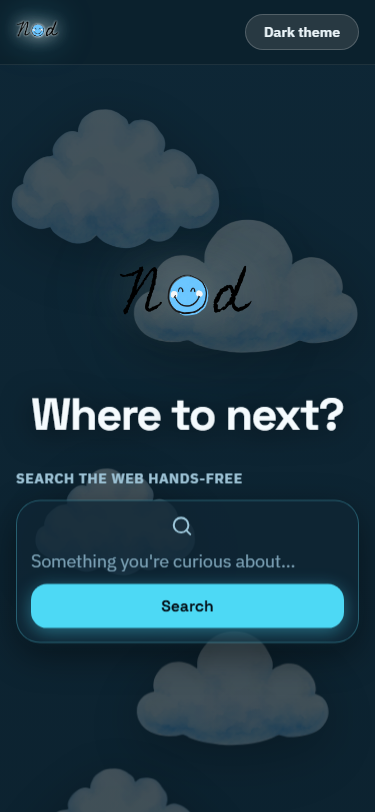
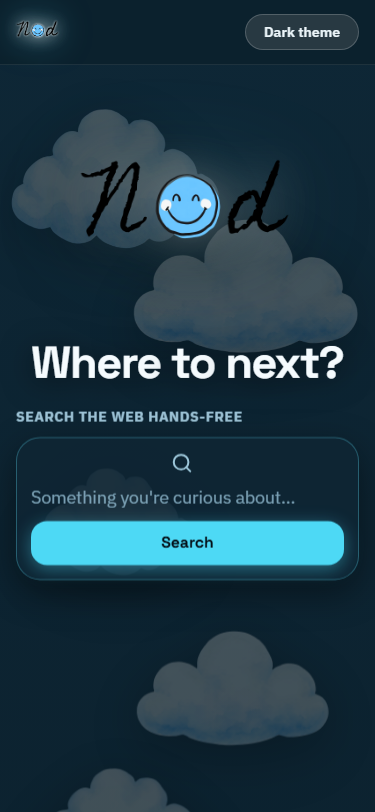
trying to fix search bar

diff --git a/ui/theme.css b/ui/theme.css
@@ -20,6 +20,16 @@
   /* Text & Accents (Light / Day Mode) */
   --hero-title-color: #0a0a0a;           /* Required: near-black, ultra-high contrast */
   --hero-logo-filter: drop-shadow(0 14px 28px rgba(8, 42, 56, 0.10));
+  
+  /* Hero Sizing & Spacing Tokens (Easily Tweakable) */
+  --hero-logo-height:        clamp(220px, 34vw, 530px);
+  --hero-logo-max-width:     min(94vw, 720px);
+  --hero-padding-top:        clamp(28px, 4.5vh, 52px);
+  --hero-padding-bottom:     clamp(50px, 7vh, 80px);
+  --hero-gap-logo-title:     clamp(12px, 1.5vw, 18px);
+  --hero-gap-title-search:   clamp(18px, 2.2vw, 26px);
+  --hero-title-size:         clamp(1.8rem, 3.8vw, 2.85rem);
+
   --text-main:        #081c26;           /* Crisp dark body text for WCAG AA */
   --text-muted:       #14384a;           /* Secondary text */
   --text-subtle:      #2a556d;
@@ -290,9 +300,9 @@ body {
 }
 
 .brand-logo {
-  height: 64px;
+  height: 68px;
   width: auto;
-  max-height: 72px;
+  max-height: 76px;
   object-fit: contain;
   display: block;
   filter: var(--brand-logo-filter);
@@ -400,8 +410,8 @@ main {
   display: flex;
   flex-direction: column;
   align-items: center;
-  justify-content: center;
-  padding: 30px 24px 50px;
+  justify-content: flex-start;
+  padding: var(--hero-padding-top) 24px var(--hero-padding-bottom);
   overflow: hidden;
 }
 
@@ -428,22 +438,22 @@ main {
 }
 
 .hero-cloud-b1 {
-  top: 10%;
-  left: 3%;
+  top: 6%;
+  left: 2%;
   width: clamp(280px, 32vw, 440px);
   animation: heroFloat1 18s ease-in-out infinite alternate;
 }
 
 .hero-cloud-b2 {
-  top: 14%;
-  right: 3%;
+  top: 8%;
+  right: 2%;
   width: clamp(300px, 36vw, 500px);
   animation: heroFloat2 22s ease-in-out infinite alternate;
 }
 
 .hero-cloud-b3 {
-  top: 64%;
-  left: 6%;
+  top: 68%;
+  left: 4%;
   width: clamp(240px, 25vw, 360px);
   animation: heroFloat1 25s ease-in-out infinite alternate;
   opacity: 0.8;
@@ -457,15 +467,15 @@ main {
 }
 
 .hero-cloud-f1 {
-  top: 22%;
-  left: 8%;
+  top: 24%;
+  left: 5%;
   width: clamp(180px, 20vw, 280px);
   animation: heroFloatFront1 15s ease-in-out infinite alternate;
 }
 
 .hero-cloud-f2 {
-  top: 18%;
-  right: 6%;
+  top: 20%;
+  right: 5%;
   width: clamp(190px, 22vw, 300px);
   animation: heroFloatFront2 17s ease-in-out infinite alternate;
 }
@@ -507,14 +517,14 @@ main {
   display: flex;
   justify-content: center;
   align-items: center;
-  margin-bottom: clamp(18px, 2.5vw, 28px);
+  margin-bottom: var(--hero-gap-logo-title);
   will-change: transform, opacity;
 }
 
 .hero-logo {
-  height: clamp(140px, 22vw, 300px);
+  height: var(--hero-logo-height);
   width: auto;
-  max-width: min(90vw, 520px);
+  max-width: var(--hero-logo-max-width);
   object-fit: contain;
   display: block;
   margin: 0 auto;
@@ -537,12 +547,12 @@ main {
 /* ── HERO HEADLINE: HARMONIOUS SIZE UNDER LOGO ───────────────────── */
 .hero-title {
   font-family: var(--font-display);
-  font-size: clamp(2rem, 4.5vw, 3.5rem);
+  font-size: var(--hero-title-size);
   font-weight: 700;
   line-height: 1.15;
   letter-spacing: -0.03em;
   color: var(--hero-title-color);
-  margin-bottom: clamp(28px, 3.5vw, 42px);
+  margin-bottom: var(--hero-gap-title-search);
   text-shadow: 0 2px 20px rgba(255, 255, 255, 0.5);
   position: relative;
   will-change: transform, opacity;
@@ -579,7 +589,7 @@ main {
   text-transform: uppercase;
   letter-spacing: 0.06em;
   color: var(--text-muted);
-  margin-bottom: 10px;
+  margin-bottom: 8px;
   text-align: left;
 }
 

diff --git a/ui/home.html b/ui/home.html
@@ -60,7 +60,7 @@
 <header class="site-header">
   <div class="header-inner">
     <a href="home.html" class="brand" aria-label="Nod home">
-      <img src="assets/nod-logo.png" alt="Nod home" class="brand-logo" height="64" width="auto">
+      <img src="assets/nod-logo.png" alt="Nod home" class="brand-logo" height="68" width="auto">
     </a>
     
     <nav class="header-nav" aria-label="Primary navigation">
